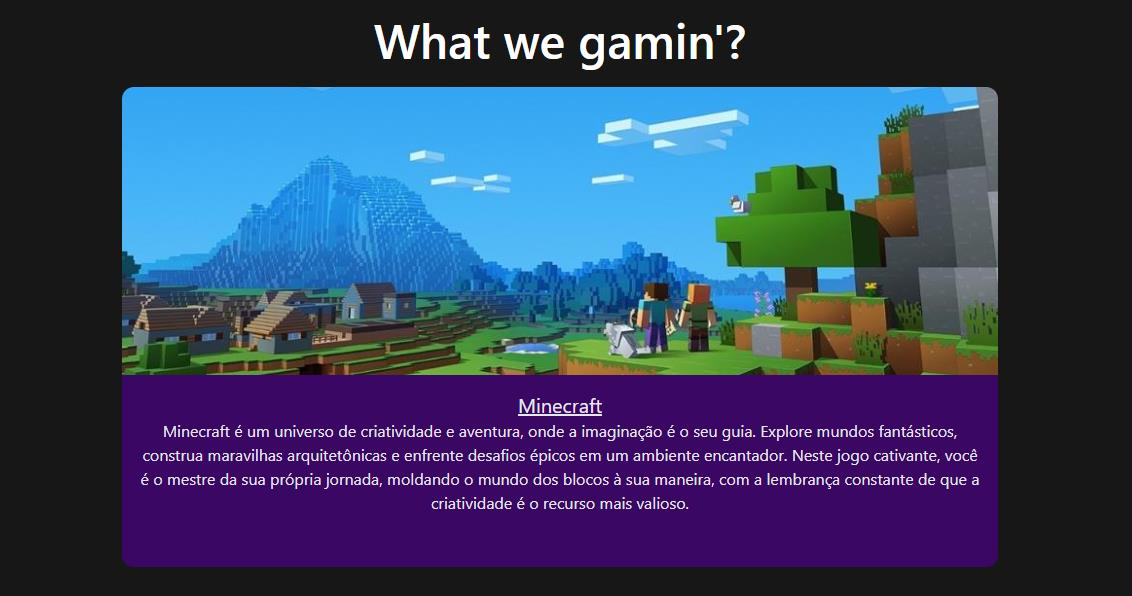
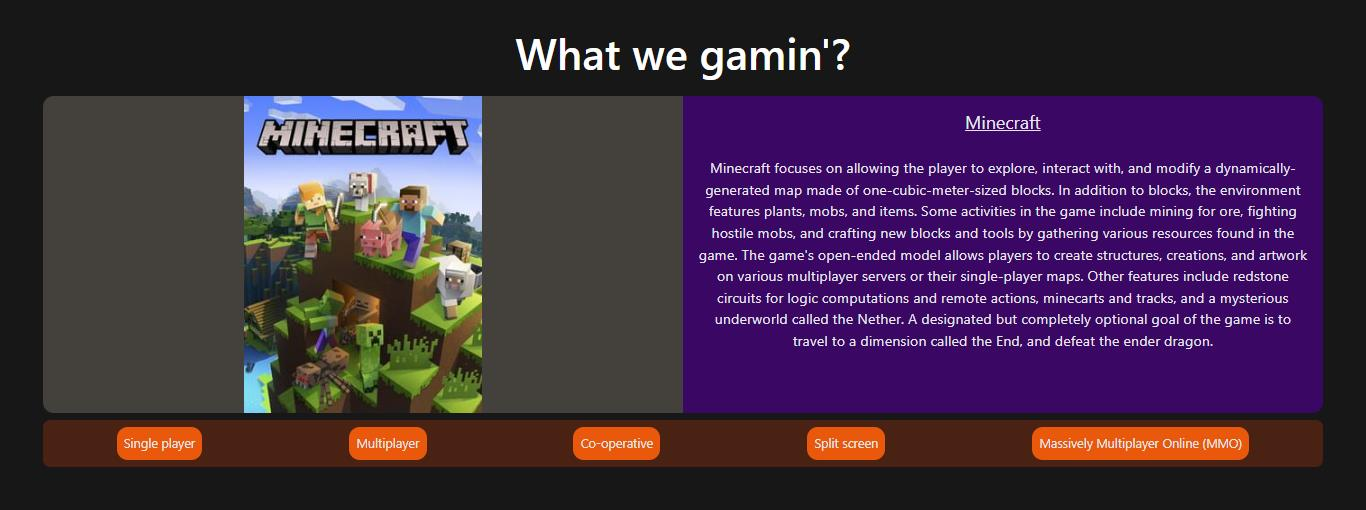
Visual improvement and upd
updated 'what we gamin' section;
better icons;
technologies description on project cards;
new twitter account;

diff --git a/index.html b/index.html
@@ -38,7 +38,7 @@
             <div
               class="md:p-2 flex flex-col justify-center items-center hover:bg-indigo-700 rounded-xl ease-in duration-100"
             >
-              <img src="assets/images/github_logo.png" class="w-10" />
+              <img src="assets/images/github.png" class="w-10" />
               <p class="text-white hidden md:block">GitHub</p>
             </div>
           </a>
@@ -49,7 +49,7 @@
             <div
               class="md:p-2 flex flex-col justify-center items-center hover:bg-indigo-700 rounded-xl ease-in duration-100"
             >
-              <img src="assets/images/linkedin_logo.png" class="w-10" />
+              <img src="assets/images/linkedin.png" class="w-10" />
               <p class="text-white hidden md:block">linkedIn</p>
             </div>
           </a>
@@ -57,7 +57,7 @@
             <div
               class="md:p-2 flex flex-col justify-center items-center hover:bg-indigo-700 rounded-xl ease-in duration-100"
             >
-              <img src="assets/images/mail_icon.png" class="w-10" />
+              <img src="assets/images/envelope-plus.png" class="w-10" />
               <p class="text-white hidden md:block">Mail me</p>
             </div>
           </a>
@@ -65,7 +65,7 @@
             <div
               class="md:p-2 flex flex-col justify-center items-center hover:bg-indigo-700 rounded-xl ease-in duration-100"
             >
-              <img src="assets/images/whatsapp_logo.png" class="w-10" />
+              <img src="assets/images/whatsapp.png" class="w-10" />
               <p class="text-white hidden md:block">Whatsapp</p>
             </div>
           </a>
@@ -73,8 +73,16 @@
             <div
               class="md:p-2 flex flex-col justify-center items-center hover:bg-indigo-700 rounded-xl ease-in duration-100"
             >
-              <img src="assets/images/chess_com_logo.svg" class="w-10" />
+              <img src="assets/images/chess.png" class="w-10" />
               <p class="text-white hidden md:block">Chess.com</p>
+            </div>
+          </a>
+          <a href="https://twitter.com/quasar_code" target="_blank">
+            <div
+              class="md:p-2 flex flex-col justify-center items-center hover:bg-indigo-700 rounded-xl ease-in duration-100"
+            >
+              <img src="assets/images/twitter-alt-circle.png" class="w-10" />
+              <p class="text-white hidden md:block">X (twitter)</p>
             </div>
           </a>
         </div>
@@ -98,22 +106,23 @@
         My marketplace
       </h1>
       <div
-        class="mt-4 md:m-4 gap-4 bg-violet-700 hover:bg-violet-800 ease-in duration-300 rounded-xl hover:rounded-3xl flex md:w-1/2 p-4"
+        class="mt-4 md:m-4 gap-4 bg-violet-700 hover:bg-violet-800 ease-in duration-300 rounded-xl hover:rounded-3xl flex md:w-1/2 p-4 text-white"
       >
         <a
           href="https://my-simple-marketplace-de99bbb33188.herokuapp.com/"
           target="_blank"
         >
           <div class="m-2">
-            <p class="text-white">
-              With user signup/login, chat, item addition/edition, item browsing
-              per name/category and more.
+            <p>
+              With user signup / login, chat, item addition / edition, item browsing
+              per name / category and more.
             </p>
             <img
               src="assets/images/my_simple_marketplace_landpage.JPG"
               class="rounded-xl mt-2"
             />
           </div>
+          <p class="text-sm">django, python, tailwind, css, html, auth, postgreSQL, javascript</p>
         </a>
       </div>
     </div>
@@ -125,14 +134,14 @@
         What we gamin'?
       </h1>
       <div
-        class="mt-4 md:m-4 gap-4 bg-violet-700 hover:bg-violet-800 ease-in duration-300 rounded-xl hover:rounded-3xl flex md:w-1/2 p-4"
+        class="mt-4 md:m-4 gap-4 bg-violet-700 hover:bg-violet-800 ease-in duration-300 rounded-xl hover:rounded-3xl flex md:w-1/2 p-4 text-white"
       >
         <a
           href="https://what-we-gamin-2ac3600a5db3.herokuapp.com/"
           target="_blank"
         >
           <div class="m-2">
-            <p class="text-white">
+            <p>
               An website to help me and my friends choose a game to play.
             </p>
             <img
@@ -140,6 +149,7 @@
               class="rounded-xl mt-2"
             />
           </div>
+          <p class="text-sm">django, python, tailwind, css, html, API, DBless</p>
         </a>
       </div>
     </div>
